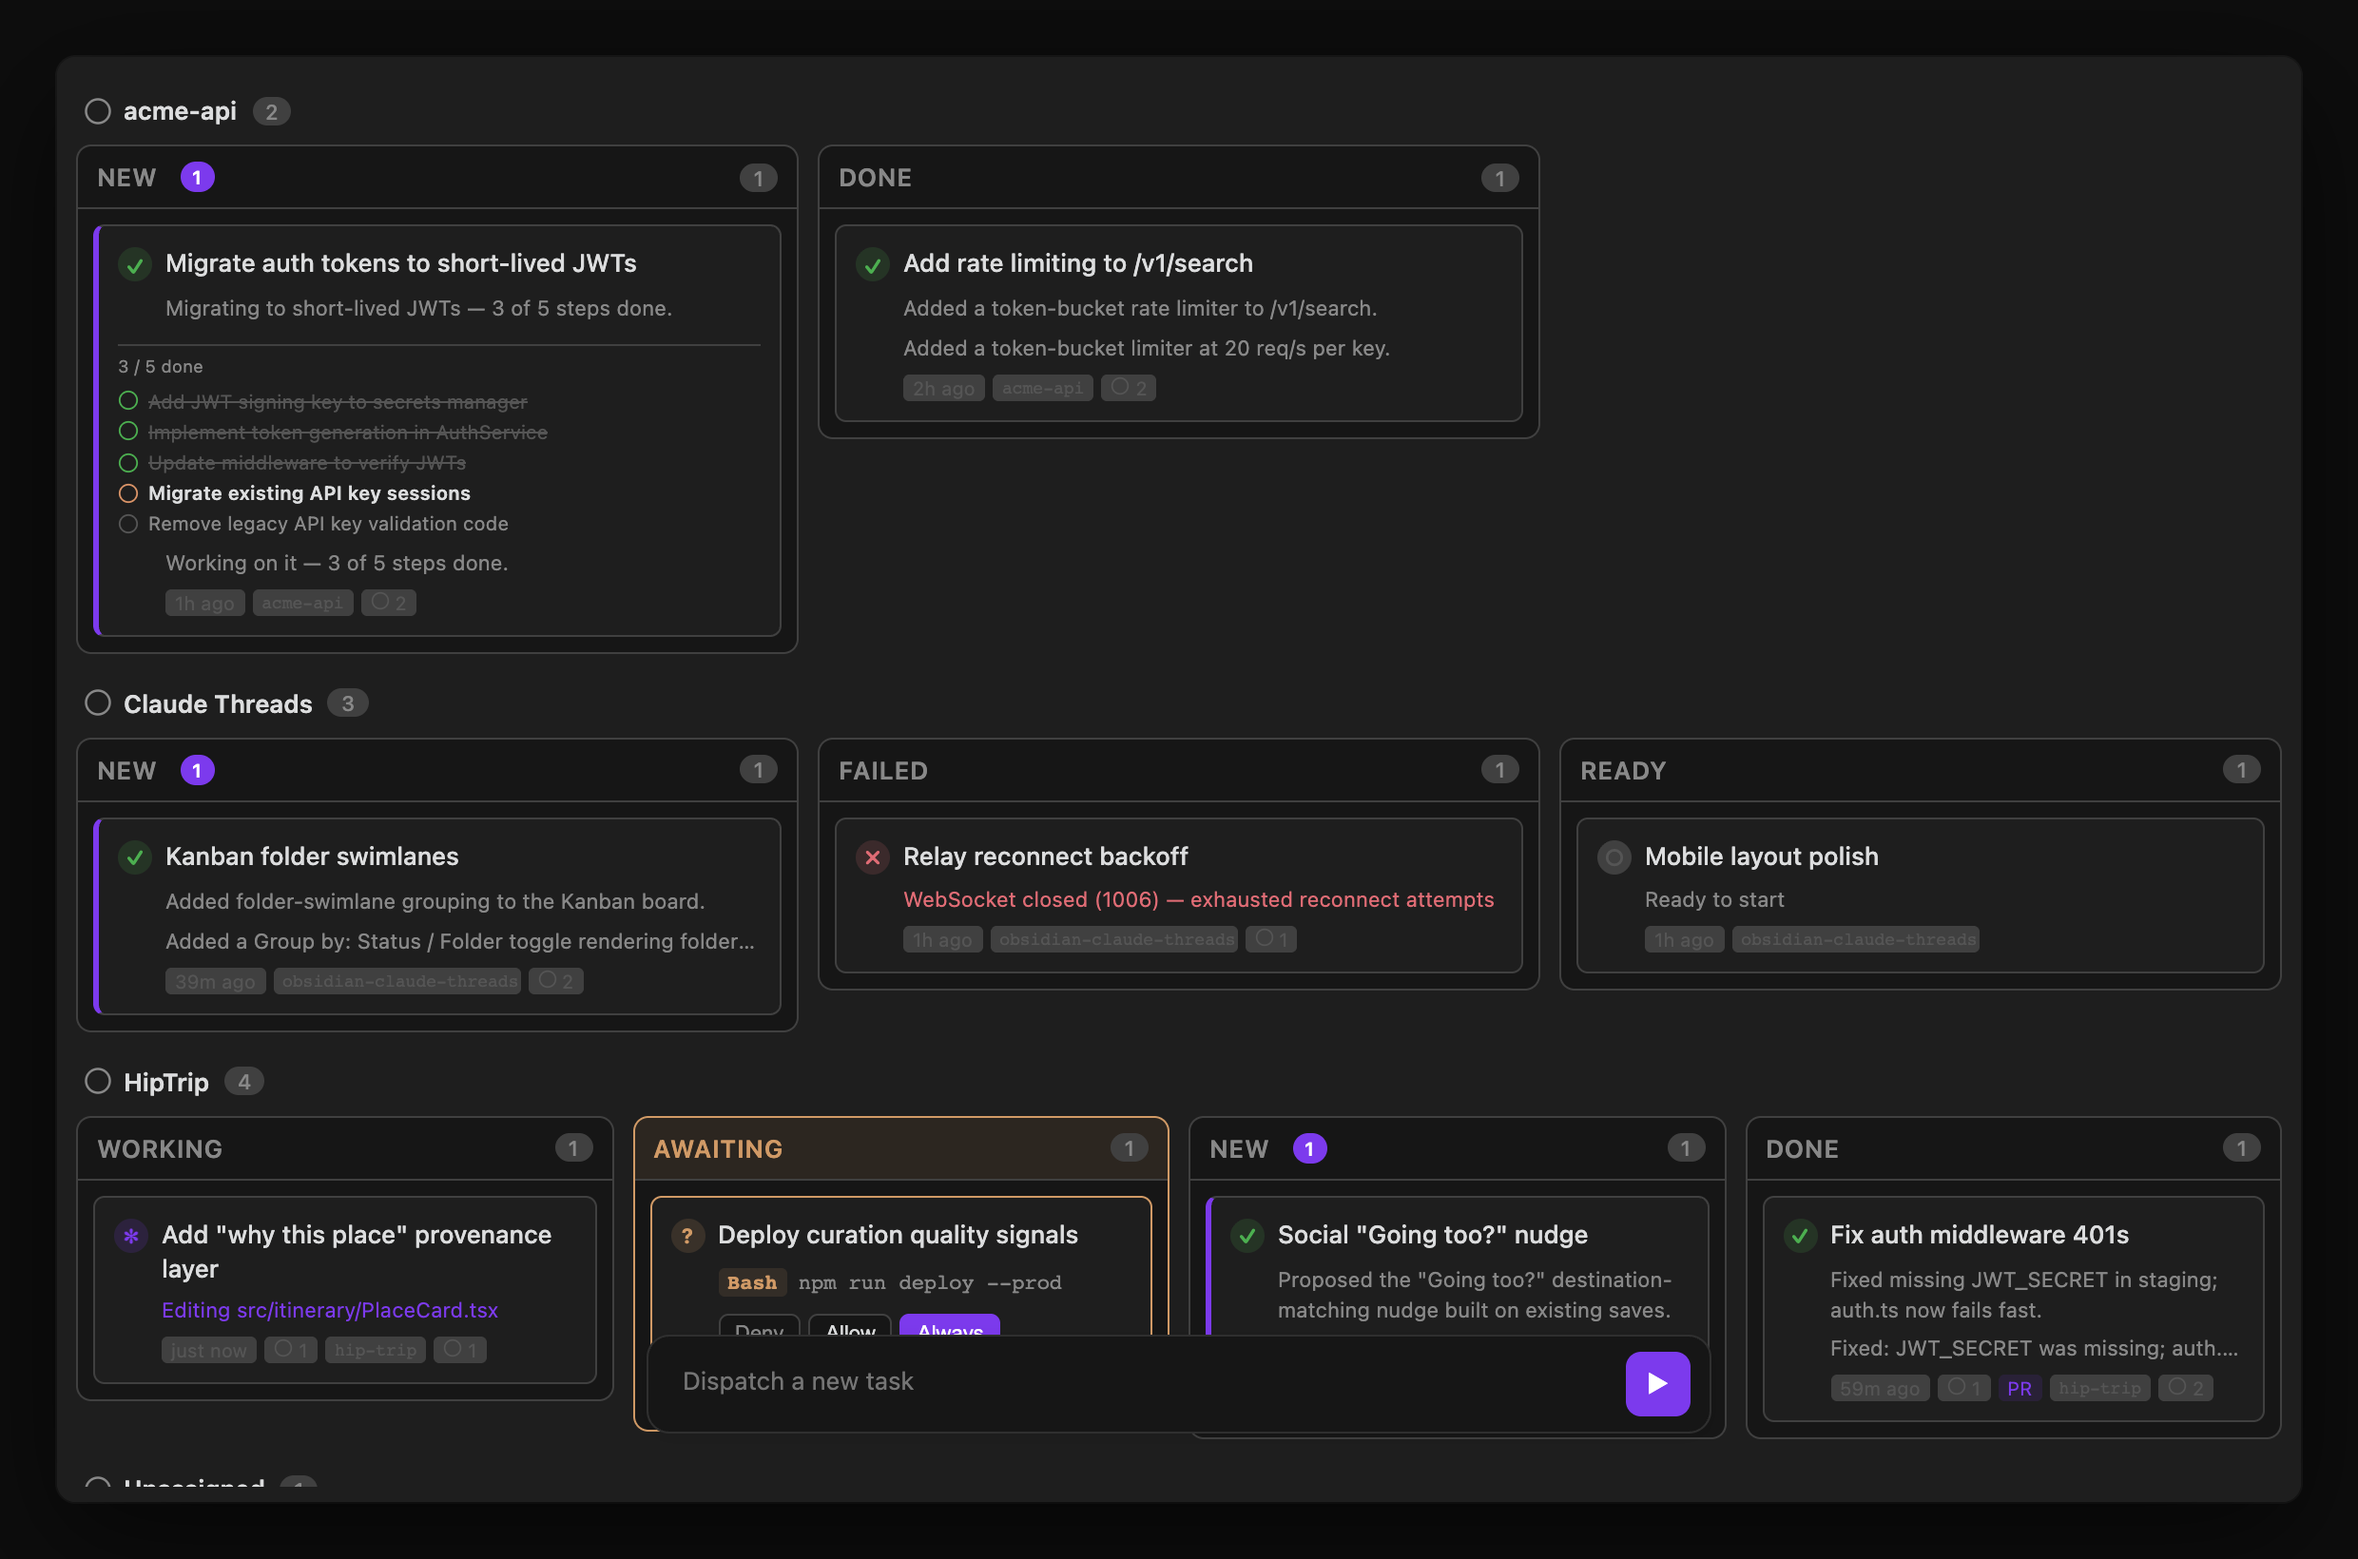
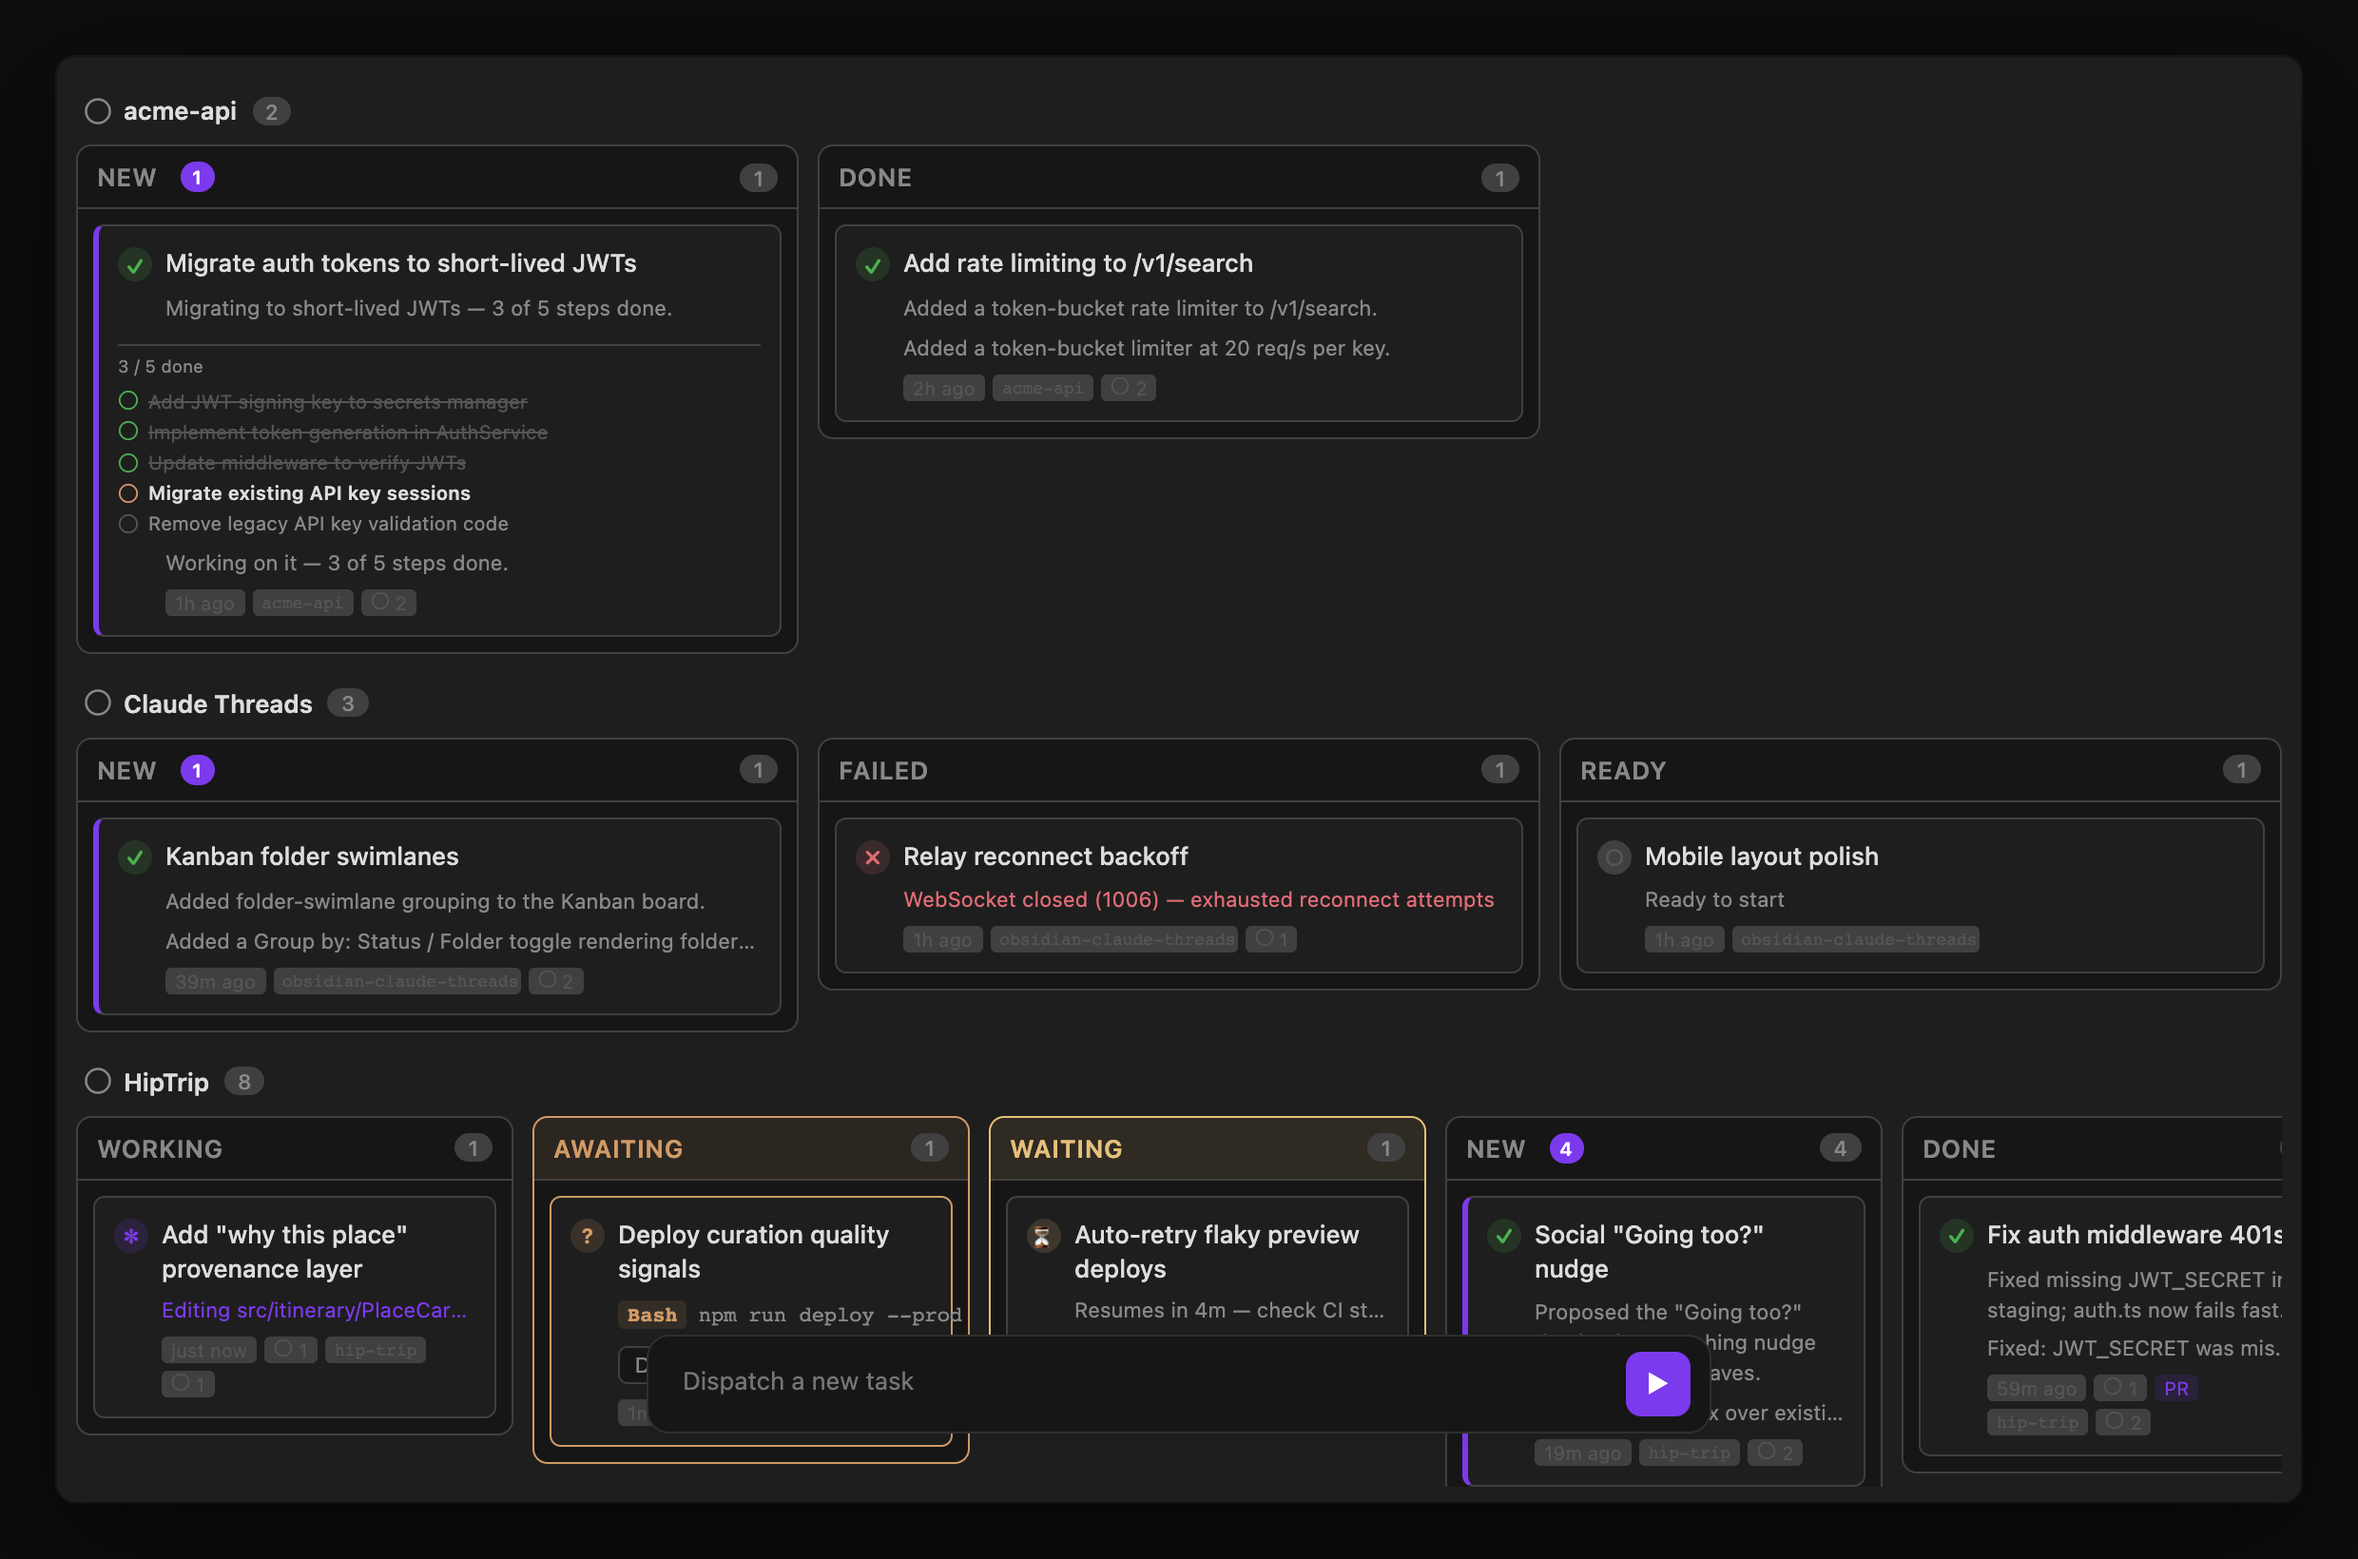
docs: document scheduled-job thread stacking in Kanban board and Agent Dashboard
Syncs the docs site with the obsidian-claude-threads plugin's new
stackScheduledThreads setting: repeat cron/scheduled-job runs collapse into
an expandable rollup in the Kanban board's quiet columns and a new
"Scheduled Jobs" section on the Agent Dashboard. Also refreshes the two
kanban screenshots to show the stacked card.

diff --git a/src/content/docs/views/kanban-board.md b/src/content/docs/views/kanban-board.md
@@ -31,6 +31,12 @@ Use the group-by toggle in the board header (the columns/folder icon, next to se
 
 ![Kanban board grouped by folder — one horizontal swimlane per app/project, each with its own nested status columns](../../../assets/screenshots/screenshot-kanban-folder.png)
 
+## Stacked scheduled-job threads
+
+Repeat runs of the same [scheduled task](/docs/automation/scheduled-tasks/) pile up fast — an hourly triage job produces ~24 cards a day, crowding out the threads you started yourself. In the quiet columns only (**New**, **Done**, **Ready** — a run that's Working, Awaiting, Waiting, or Failed always stays its own card), runs that share a scheduled job collapse into a single dashed-border rollup card: job name, a "×N" run count, and the latest run's time. Click the card to expand it into the individual run cards, indented beneath. This applies in both status-column and folder-swimlane mode.
+
+Enabled by default — disable via **Settings → Features → Kanban board → Stack scheduled job threads** if you'd rather see every run as its own card, see [Settings Reference → Features](/docs/reference/settings/#kanban-board).
+
 ## Auto-collapse side panels
 
 Set **Settings → Features → Kanban board → Auto-collapse side panel** to `Left sidebar`, `Right sidebar`, or `Both sidebars` to automatically collapse Obsidian's sidebar panel(s) when the Kanban tab opens, giving the board more horizontal room. Only the panel(s) the Kanban view collapsed are restored when you close the tab, so it won't fight a panel you collapsed or expanded manually. Defaults to `None` (opt-in) — see [Settings Reference → Features](/docs/reference/settings/#features).

diff --git a/src/content/docs/views/agent-dashboard.md b/src/content/docs/views/agent-dashboard.md
@@ -27,6 +27,12 @@ After each completed response, the summarizer runs in a lightweight background p
 
 This combination means you can dispatch several threads in parallel, switch to other work, then return to the dashboard to understand the state of every agent without reading through each conversation. Summarization behavior — auto vs. manual, and which model does the summarizing — is configurable in [Settings Reference → Features](/docs/reference/settings/#features).
 
+## Scheduled Jobs
+
+An hourly (or more frequent) [scheduled task](/docs/automation/scheduled-tasks/) can produce dozens of quiet threads a day, burying the manually-created ones you actually need to triage. When a run created by the scheduler is unreviewed, reviewed, or empty — never one that's running, awaiting a permission/question, or errored — it's pulled out of its normal group into a **Scheduled Jobs** section at the bottom of the dashboard, one collapsed row per job showing its name, run count, and the latest run's time. Click a row to expand it into the individual runs.
+
+Enabled by default — disable via **Settings → Features → Kanban board → Stack scheduled job threads**, see [Settings Reference → Features](/docs/reference/settings/#kanban-board).
+
 ## Jump to latest unreviewed
 
 Run **Jump to latest unreviewed completed agent** from the command palette to open the Agent Dashboard (if it isn't already open) and jump straight to the most recently completed thread you haven't looked at yet. This is the fastest way to work through a backlog of finished agents after dispatching several tasks in parallel.

diff --git a/src/content/docs/reference/settings.md b/src/content/docs/reference/settings.md
@@ -97,6 +97,7 @@ See [Push-to-talk voice input](/docs/integrations/remote-and-voice/#push-to-talk
 | Setting | Description |
 |---|---|
 | Auto-collapse side panel | `None` (default), `Left sidebar`, `Right sidebar`, or `Both sidebars` — collapses the chosen sidebar(s) when the [Kanban board](/docs/views/kanban-board/#auto-collapse-side-panels) opens, restoring them when it closes |
+| Stack scheduled job threads | On by default — collapses repeat runs of the same scheduled/cron job into an expandable rollup in the [Kanban board](/docs/views/kanban-board/#stacked-scheduled-job-threads)'s quiet columns and the [Agent Dashboard](/docs/views/agent-dashboard/#scheduled-jobs)'s Scheduled Jobs section |
 
 ### Scheduled tasks
 
